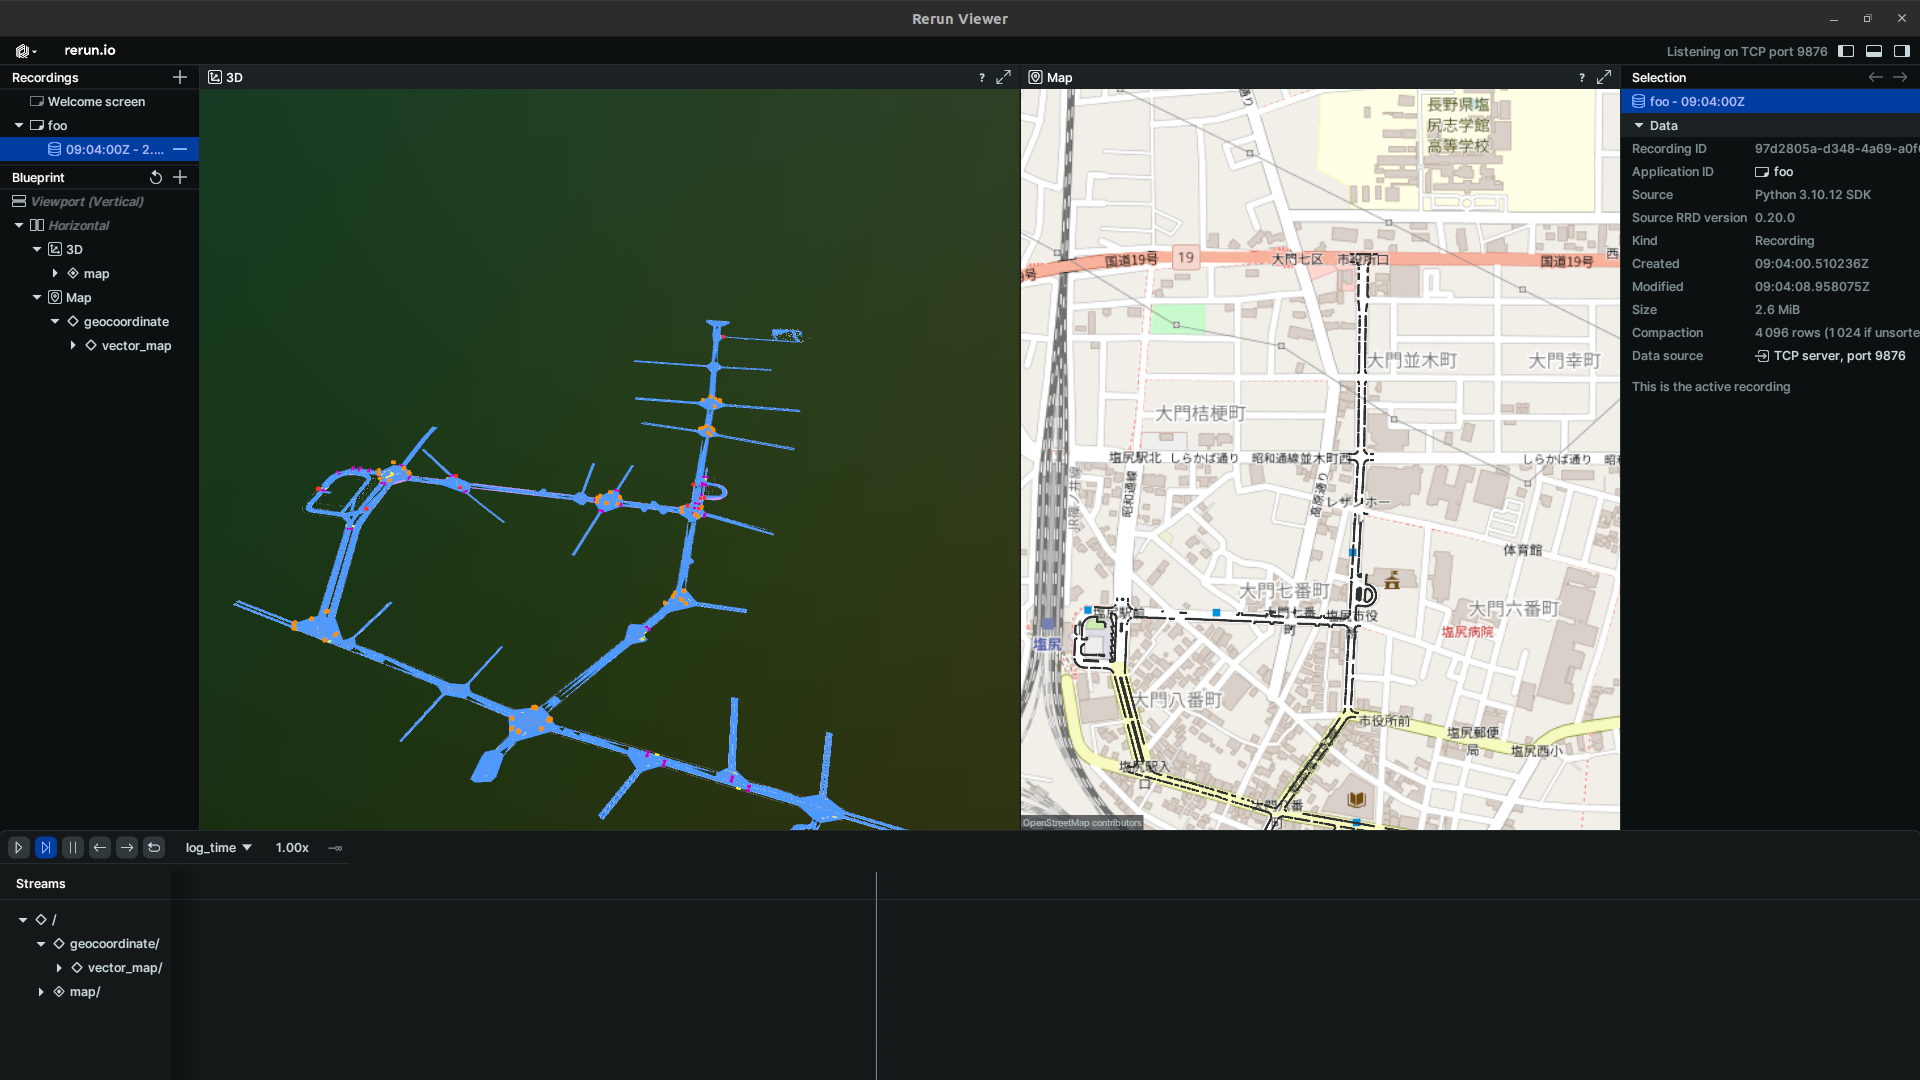
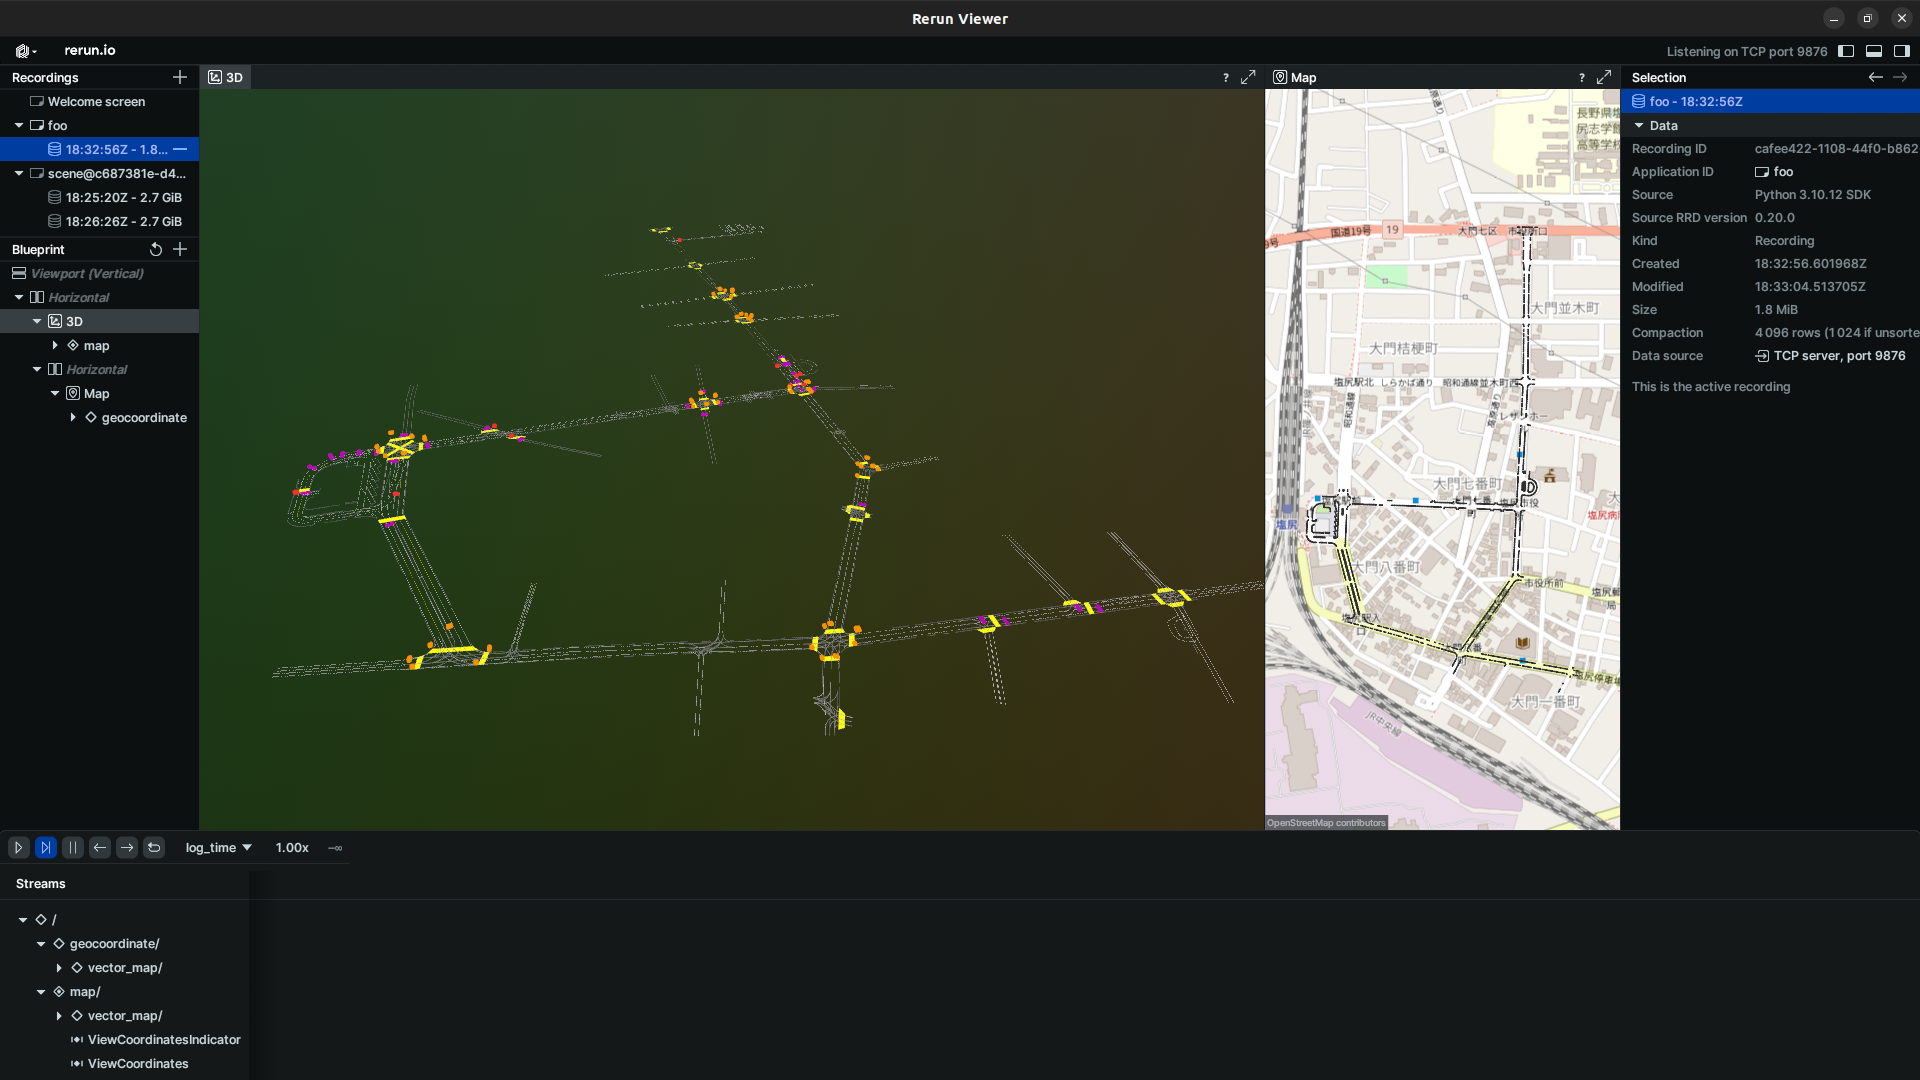
fix: update to only render crosswalk polygons (#186)
* fix: update to render only crosswalk polygons

* docs: replace the image for map rendering

---------

diff --git a/t4_devkit/viewer/lanelet.py b/t4_devkit/viewer/lanelet.py
@@ -33,12 +33,14 @@ LANELET_COLORS = {
 def render_lanelets(parser: LaneletParser, root_entity: str) -> None:
     """Render lanelet polygons based on relations.
 
+    Note that this function only renders lanelets of type "crosswalk".
+
     Args:
         parser (LaneletParser): The LaneletParser instance.
         root_entity (str): The root entity to render.
     """
     for relation in parser.relations.values():
-        if relation.tags.get("type") != "lanelet":
+        if relation.tags.get("type") != "lanelet" or relation.tags.get("subtype") != "crosswalk":
             continue
 
         left_bound = None
@@ -55,16 +57,9 @@ def render_lanelets(parser: LaneletParser, root_entity: str) -> None:
 
             vertices = np.array(left_coords + right_coords[::-1])
             triangles = np.array([(0, i, i + 1) for i in range(1, len(vertices) - 1)])
-            subtype = relation.tags.get("subtype", "road")
-            if subtype == "road":
-                color = LANELET_COLORS["lanelet_road"]
-                element_type = "road"
-            elif subtype == "crosswalk":
-                color = LANELET_COLORS["lanelet_crosswalk"]
-                element_type = "crosswalk"
-            else:
-                color = LANELET_COLORS["lanelet_shoulder"]
-                element_type = "shoulder"
+
+            color = LANELET_COLORS["lanelet_crosswalk"]
+            element_type = "crosswalk"
 
             entity_path = f"{root_entity}/lanelet/{element_type}/{relation.id}"
             rr.log(
